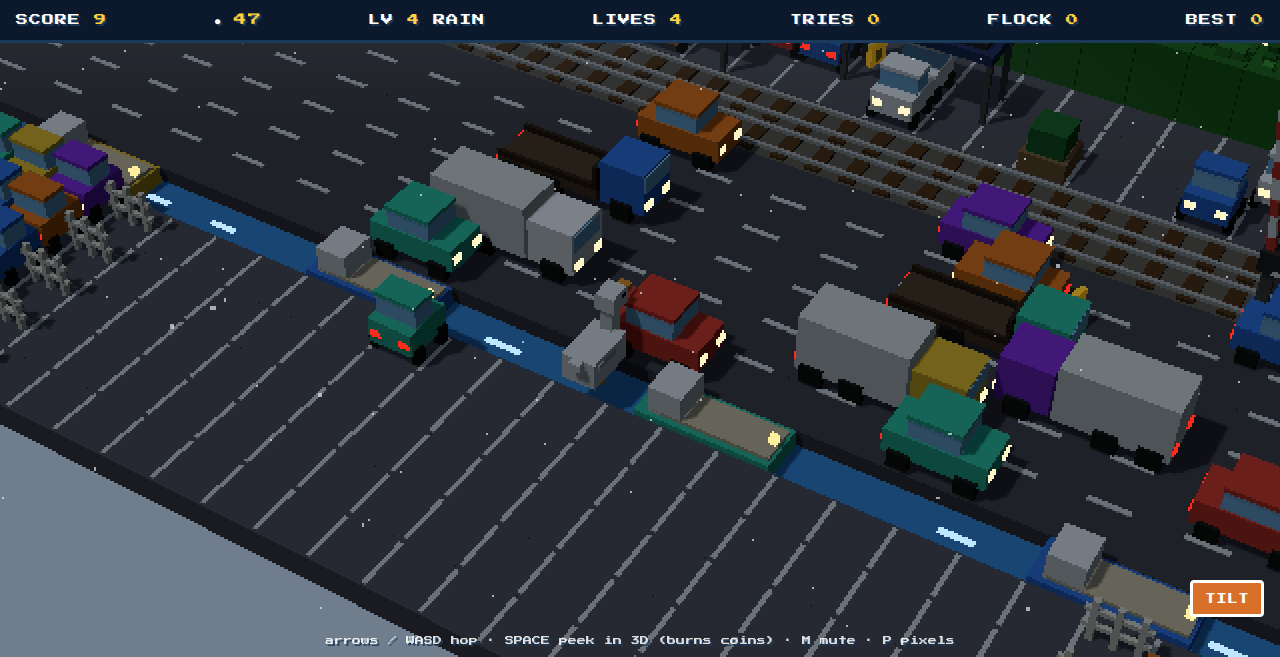
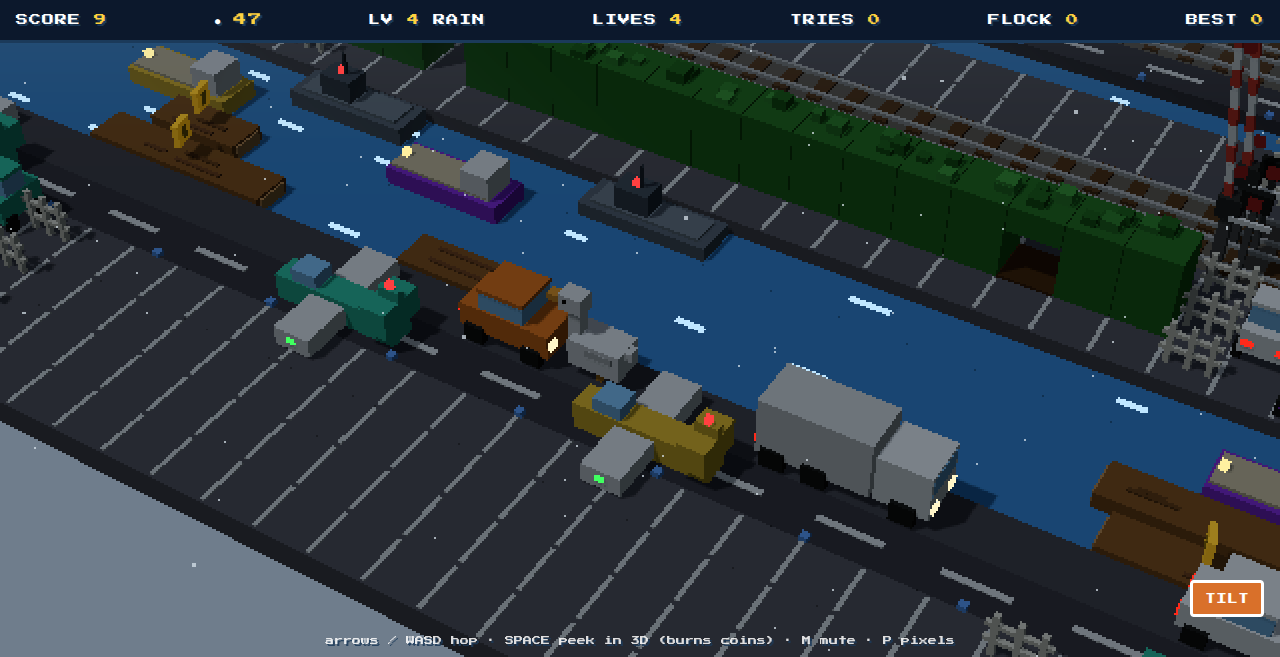
Backdrop shadows, spacing and desaturation; planes never overrun; opening coins; bigger TILT with a once-per-row hidden hint

diff --git a/src/attract.js b/src/attract.js
@@ -10,7 +10,8 @@ const ROWS = 7;            // rows up the wall
 const ROW_BASE = -11;      // lowest row; the select camera sees the wall from about -11 to +3
 const ROW_GAP = 2.4;       // vertical spacing
 const HALF_W = 60;         // scroll span each side; wraps beyond this
-const SPACING = 4.2;       // along the row
+const SPACING = 7.5;       // along the row
+const DESATURATE = 0.3;    // pull backdrop colours 30% toward grey
 const WALL_Z = -13;
 
 const MAKERS = [
@@ -20,21 +21,40 @@ const MAKERS = [
   ...CHARACTERS.map((c) => () => c.make(rollVariant(c))),
 ];
 
+// A per-mesh material copy with its colour pulled toward its own grey.
+const toGrey = (c) => { const l = 0.299 * c.r + 0.587 * c.g + 0.114 * c.b; c.lerp(new THREE.Color(l, l, l), DESATURATE); };
+function desaturate(material) {
+  const m = material.clone();
+  if (m.color) toGrey(m.color);
+  if (m.emissive) toGrey(m.emissive);
+  return m;
+}
+
 export class Attract {
   constructor(scene) {
     this.scene = scene;
     this.group = new THREE.Group();
-    const wall = new THREE.Mesh(new THREE.PlaneGeometry(400, 80), new THREE.MeshBasicMaterial({ color: 0x27469a, fog: false }));
+    // Lit so the entities in front throw shadows onto it.
+    const wall = new THREE.Mesh(new THREE.PlaneGeometry(400, 80), new THREE.MeshLambertMaterial({ color: 0x3558b8, fog: false }));
     wall.position.set(0, 0, WALL_Z - 1.5);
+    wall.receiveShadow = true;
     this.group.add(wall);
     this.rows = [];
     for (let r = 0; r < ROWS; r++) {
       const dir = r % 2 ? -1 : 1;
       const row = { y: ROW_BASE + r * ROW_GAP, dir, speed: rand(1.4, 2.6), spin: rand(0.5, 1.1) * dir, phase: rand(0, 6.28), items: [] };
+      let last = -1;
       for (let x = -HALF_W; x < HALF_W; x += SPACING) {
-        const m = pick(...MAKERS)();
+        let i;
+        do i = Math.floor(Math.random() * MAKERS.length); while (i === last);   // no two alike in a row
+        last = i;
+        const m = MAKERS[i]();
         m.position.set(x + rand(-0.6, 0.6), row.y, WALL_Z);
-        m.traverse((o) => { o.castShadow = false; o.receiveShadow = false; });
+        m.traverse((o) => {
+          if (!o.isMesh) return;
+          o.castShadow = true; o.receiveShadow = false;
+          o.material = desaturate(o.material);
+        });
         this.group.add(m);
         row.items.push(m);
       }

diff --git a/index.html b/index.html
@@ -17,10 +17,12 @@
     @keyframes pulse { from { transform: scale(1); } to { transform: scale(1.15); } }
     #card  { position: absolute; top: 58px; left: 0; right: 0; text-align: center; font-size: 16px; line-height: 1.8; }
     #hint  { position: absolute; bottom: 12px; left: 0; right: 0; text-align: center; font-size: 9px; opacity: .85; }
-    #view  { position: absolute; bottom: 40px; right: 16px; pointer-events: auto; font: inherit; font-size: 11px; color: #fff; background: #1b3a5a; border: 3px solid #fff; border-radius: 4px; padding: 10px 12px; cursor: pointer; }
+    #view  { position: absolute; bottom: 40px; right: 16px; pointer-events: auto; font: inherit; font-size: 18px; color: #fff; background: #1b3a5a; border: 4px solid #fff; border-radius: 6px; padding: 16px 22px; cursor: pointer; }
     #view.on { background: #d9702a; }
     #view.broke { opacity: .45; }
     #view.nudge { animation: nudge .6s infinite alternate; }
+    #view.hint { animation: hintblink .25s 4 alternate; }
+    @keyframes hintblink { from { background: #1b3a5a; } to { background: #ffd23f; color: #1b3a5a; } }
     @keyframes nudge { from { background: #1b3a5a; transform: scale(1); } to { background: #ffd23f; color: #1b3a5a; transform: scale(1.1); } }
     #debug { position: absolute; bottom: 40px; left: 16px; font-size: 9px; line-height: 2; background: rgba(20, 40, 70, .8); border: 2px solid #fff; border-radius: 4px; padding: 8px 12px; }
     /* Touch control bar: d-pad left, action cluster right. Only on coarse pointers. */

diff --git a/src/modes/crossing.js b/src/modes/crossing.js
@@ -50,6 +50,7 @@ export class CrossingMode {
     this.tally = null;
     this.tilted = false;
     this.sinceTilt = 0;
+    this.hinted = new Set();     // rows already dinged for
     this.focus = { x: 0, z: 0 };
     this.game.camera.snap(0, -3, 'top');
     this.game.ui.view.hidden = false;
@@ -65,6 +66,8 @@ export class CrossingMode {
       p.index = i;
       p.invincible = debug.god;
       p.onCoin = () => { run.coins += 1; };
+      const landed = () => this.hintNearby(p);
+      p.onLandedHint = landed;
       p.onDie = (cause) => { if (cause === 'water') this.fx.splash(p.mesh.position); };
       p.isOccupied = (col, row) => this.blocked(p, col, row);
       const col = roster.length > 1 ? (i === 0 ? -1 : 1) : 0;
@@ -168,6 +171,21 @@ export class CrossingMode {
   }
 
   onViewButton() { this.setTilt(!this.tilted); }
+
+  // Once per hidden row: the TILT placard blinks twice and dings twice as the
+  // player comes within two rows of it.
+  hintNearby(p) {
+    for (const r of [p.row + 1, p.row + 2]) {
+      const lane = this.world.laneAt(r);
+      if (!lane?.data.hidden || this.hinted.has(r)) continue;
+      this.hinted.add(r);
+      const v = this.game.ui.view;
+      v.classList.remove('hint'); void v.offsetWidth; v.classList.add('hint');
+      setTimeout(() => v.classList.remove('hint'), 1000);
+      sfx.dingding();
+      return;
+    }
+  }
 
   // Vehicles on nearby road rows, for the headlight pool.
   emitters(focusRow) {

diff --git a/src/scenarios/runway.js b/src/scenarios/runway.js
@@ -75,7 +75,22 @@ export default {
       if (m.kind !== 'taxi' && m.prevP !== undefined && m.prevP < 0.5 && p >= 0.5 && near) sfx.jet(m.kind === 'takeoff');
       m.prevP = p;
       m.y = y;
-      m.x += lane.dir * lane.speed * speed * dt;
+      m.v = speed;
+    }
+    // No overrunning on the ground: a plane closing on the one ahead matches its
+    // speed. Anything airborne may pass over.
+    const ordered = [...lane.movers].sort((a, b) => a.x * lane.dir - b.x * lane.dir);
+    for (let i = 0; i < ordered.length; i++) {
+      const m = ordered[i], ahead = ordered[(i + 1) % ordered.length];
+      if (ordered.length > 1 && m.y < 1 && ahead.y < 1) {
+        let gap = (ahead.x - m.x) * lane.dir - (ahead.len + m.len) / 2;
+        if (i === ordered.length - 1) gap += 2 * SPAN;
+        if (gap < 1.2) m.v = Math.min(m.v, ahead.v);
+      }
+    }
+    for (const m of lane.movers) {
+      const y = m.y;
+      m.x += lane.dir * lane.speed * m.v * dt;
       if (m.x > SPAN) m.x -= 2 * SPAN;
       if (m.x < -SPAN) m.x += 2 * SPAN;
       m.mesh.position.set(m.x, y, 0);

diff --git a/src/sfx.js b/src/sfx.js
@@ -117,6 +117,8 @@ export const sfx = {
                 setTimeout(() => voice({ wave: 'triangle', freq: 1500, slideTo: 260, attack: 0.01, decay: 0.05, sustain: 0.8, hold: 0.42, release: 0.15, vol: 0.07 }), 400); },
   // Falling: a long descending whistle.
   fall: () => voice({ wave: 'triangle', freq: 1400, slideTo: 180, attack: 0.02, decay: 0.05, sustain: 0.8, hold: 0.55, release: 0.2, vol: 0.07 }),
+  // Soft double ding: a nudge that something is hidden nearby.
+  dingding: () => { for (const d of [0, 160]) setTimeout(() => voice({ wave: 'triangle', freq: N(93), attack: 0.003, decay: 0.05, sustain: 0.5, hold: 0.05, release: 0.12, vol: 0.045 }), d); },
   tick: () => voice({ wave: 'square', freq: N(84), attack: 0.002, decay: 0.02, sustain: 0.3, hold: 0.02, release: 0.04, vol: 0.05 }),
   // Coin drop into the slot: two bright metallic blips.
   clink: () => { voice({ wave: 'square', freq: N(91), attack: 0.002, decay: 0.03, sustain: 0.4, hold: 0.03, release: 0.05, vol: 0.06 });

diff --git a/src/player.js b/src/player.js
@@ -133,7 +133,7 @@ export class Player {
     if (!lane) return;
     // A wing over this cell catches you before whatever is below can.
     const wing = this.world.wingAt(this.x, this.row);
-    if (wing) { this.mount(wing); this.onLanded?.(); return; }
+    if (wing) { this.mount(wing); this.onLanded?.(); this.onLandedHint?.(); return; }
     const cause = lane.scenario.onLand?.(lane, this);
     if (cause) { this.die(cause); return; }
     if (this.carrier) this.carrierOffset = this.x - this.carrier.x;
@@ -141,6 +141,7 @@ export class Player {
     if (this.carrier && Math.abs(this.x - this.carrier.x) < 0.6 && lane.takeMoverCoin(this.carrier)) this.gotCoin();
     if (this.row > this.maxRow) this.maxRow = this.row;
     this.onLanded?.();
+    this.onLandedHint?.();
     if (lane.takeEgg(this.col)) this.onEgg?.();
     if (this.buffered) { const b = this.buffered; this.buffered = null; this.hop(...b); }
   }

diff --git a/src/scenarios/meadow.js b/src/scenarios/meadow.js
@@ -1,11 +1,16 @@
 // Open grass. Interstitial between bands and the padding around hedges.
+import { W } from '../lane.js';
+import { randInt } from '../util.js';
+
 export default {
   id: 'meadow',
   danger: false,
   weight: 1,
   band: [1, 2],
-  build(lane) {
+  build(lane, { index, count }) {
     lane.terrain();
     lane.edges();
+    // The opening rows of every level carry a couple of coins to get started.
+    if (count === 4 && (index === 1 || index === 2)) lane.coin(randInt(-W + 2, W - 2));
   },
 };

diff --git a/src/scenarios/grass.js b/src/scenarios/grass.js
@@ -24,6 +24,7 @@ export default {
         // Under the canopy only, so the egg is never visible from straight above.
         const cc = c + pick(-1, 1);
         if (Math.random() < 0.4) lane.egg(cc); else lane.coin(cc);
+        lane.data.hidden = true;        // something under a roof: worth a peek
       }
     }
     for (let c = -W; c <= W; c++) {

diff --git a/src/scenarios/hedge.js b/src/scenarios/hedge.js
@@ -19,6 +19,7 @@ export default {
     let gap;
     do gap = randInt(-W, W); while (Math.abs(gap - tunnel) < 6);
     world.pathCol = tunnel;
+    lane.data.hidden = true;            // the tunnel only shows from the side
     for (let c = -W; c <= W; c++) {
       if (c === gap) continue;
       lane.add(c === tunnel ? makeTunnel() : makeHedge(), c);
